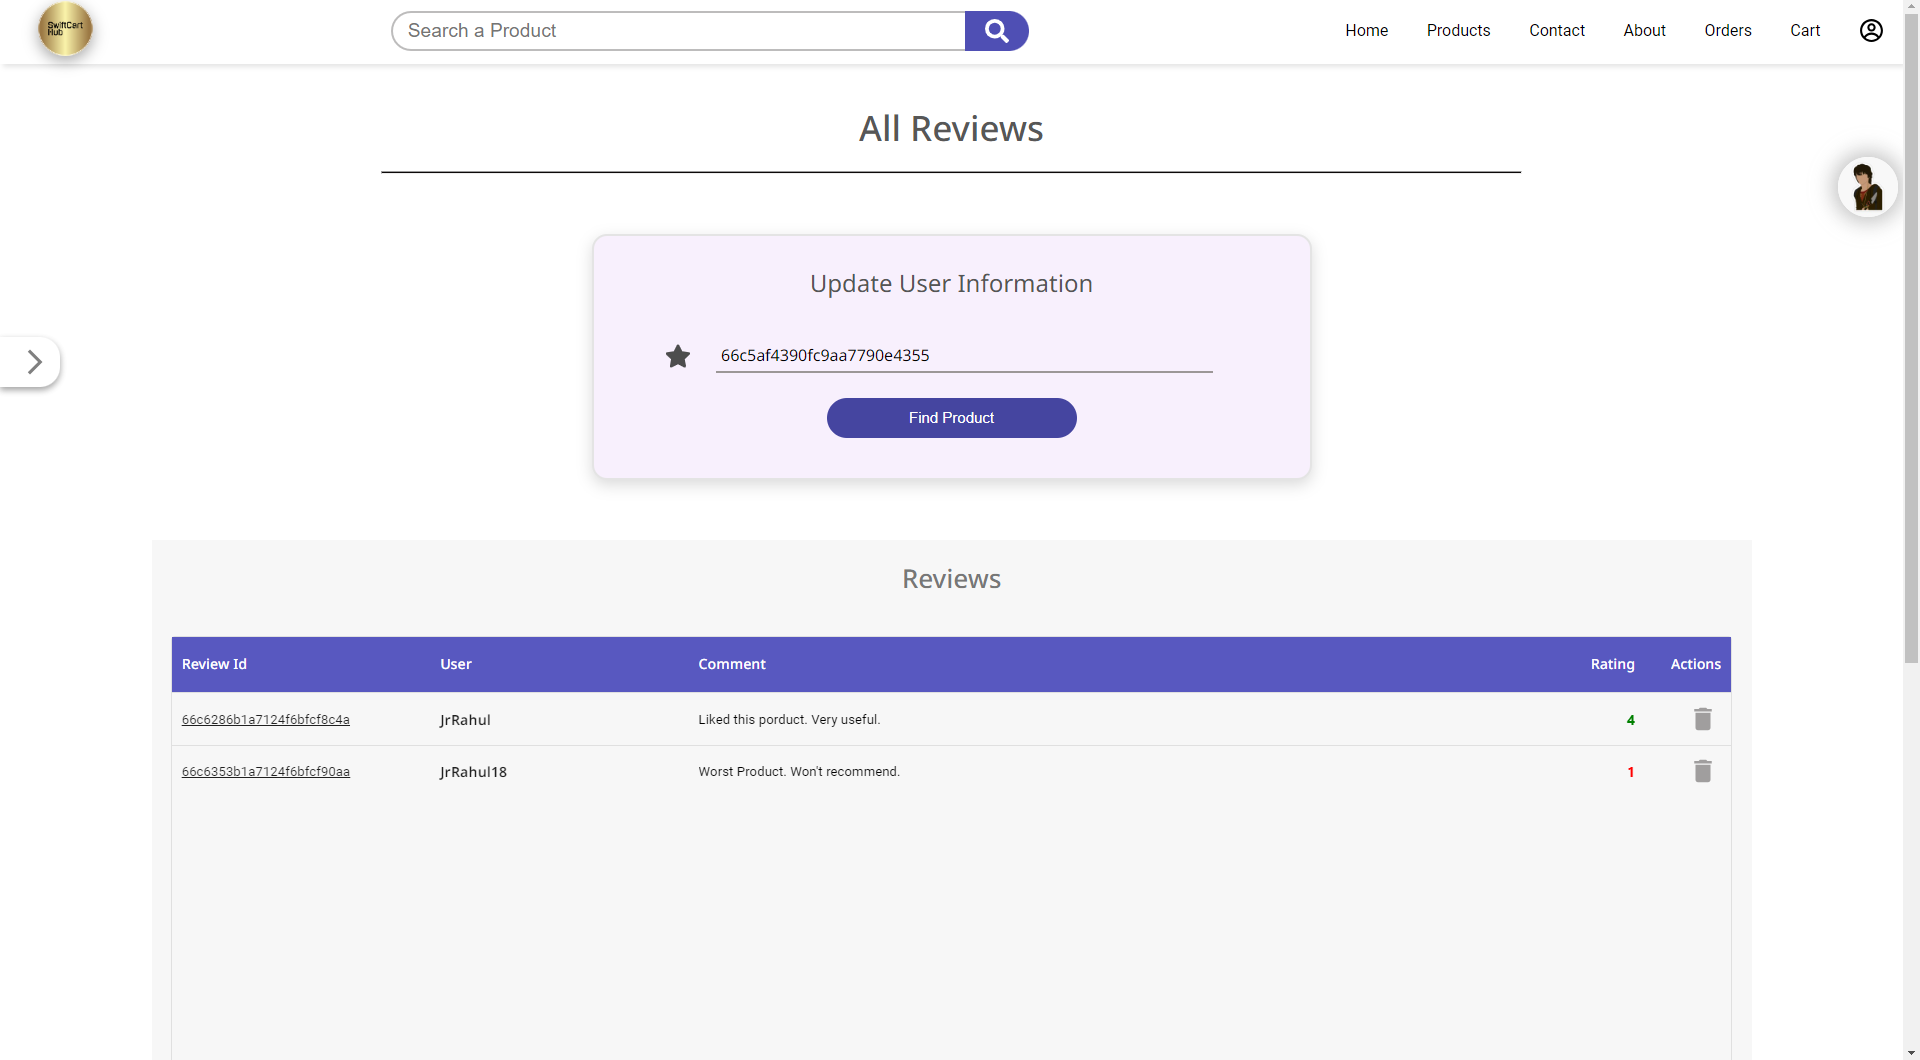
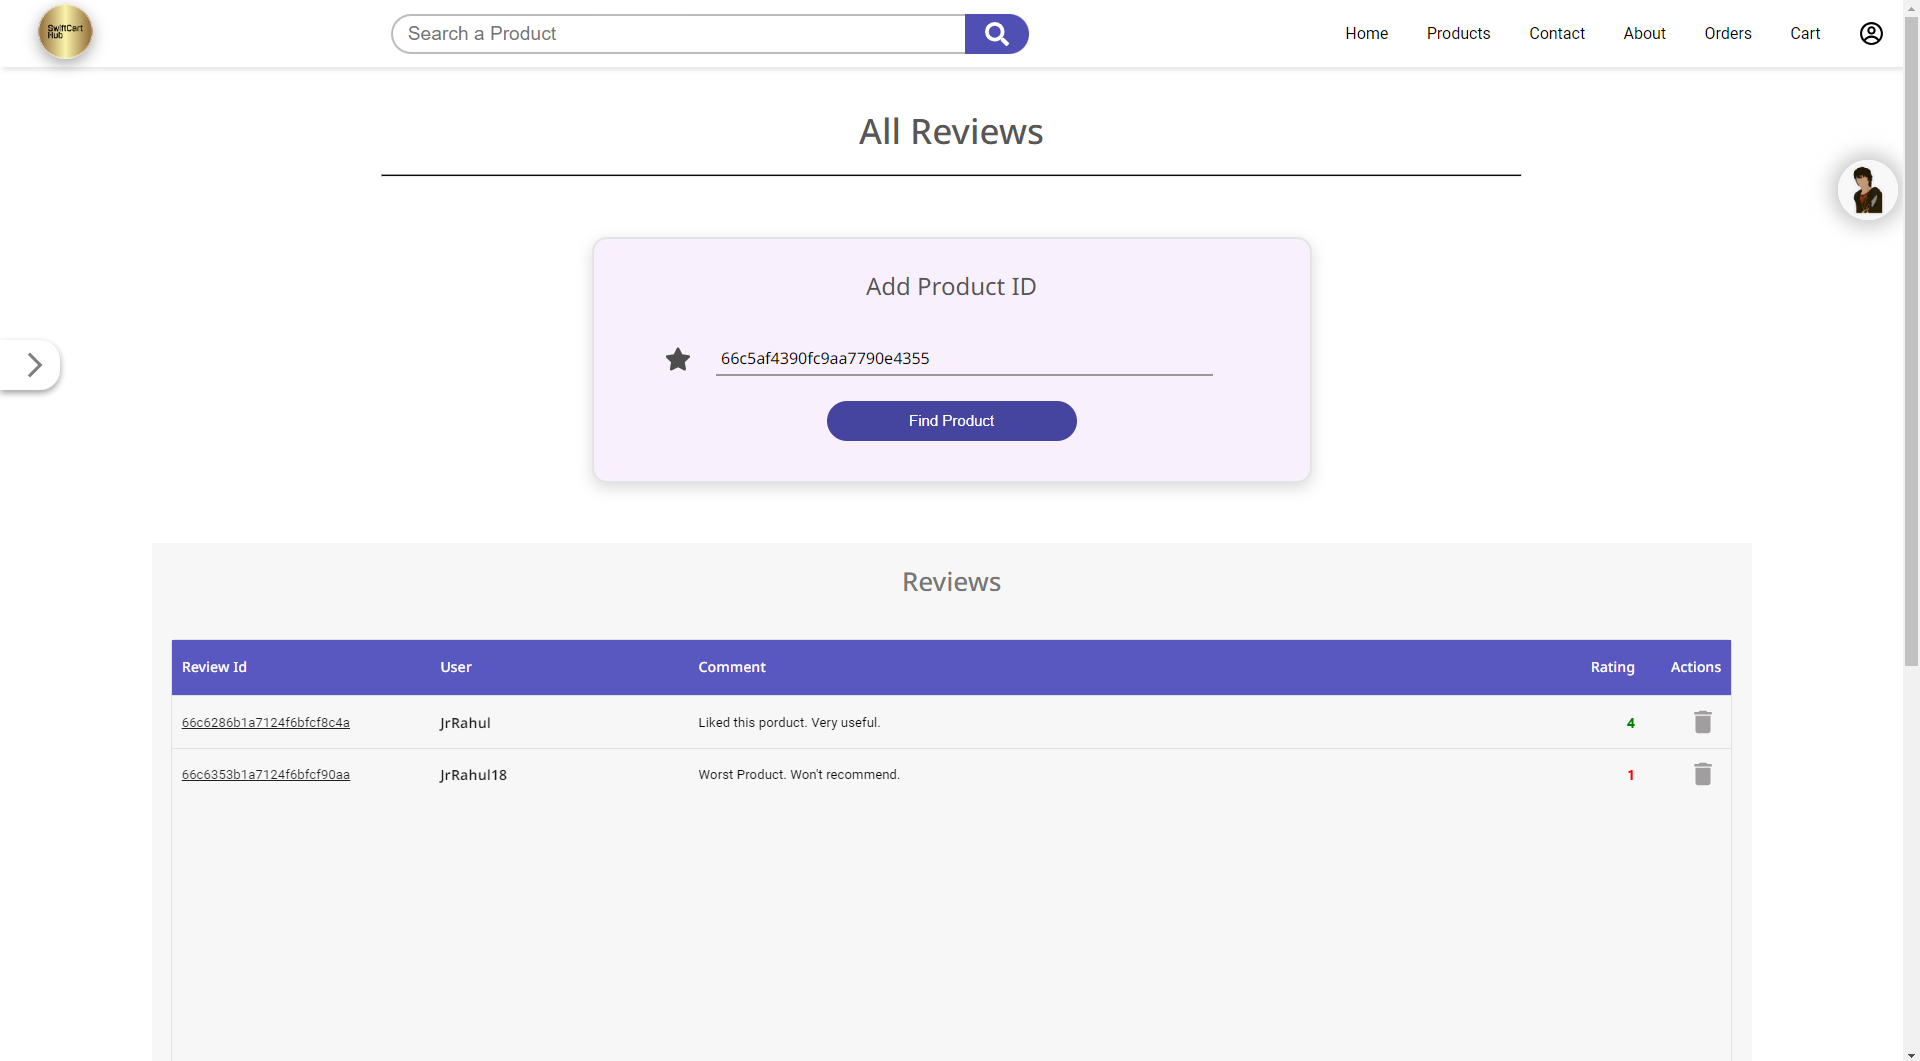
Update Readme

diff --git a/frontend/src/components/AdminReviews/AdminReviews.jsx b/frontend/src/components/AdminReviews/AdminReviews.jsx
@@ -183,7 +183,7 @@ const AdminReviews = () => {
               onSubmit={productReviewSubmitHandler}
             >
               <div className={styles.headingBox}>
-                <h2 className={styles.heading}>Update User Information</h2>
+                <h2 className={styles.heading}>Add Product ID</h2>
               </div>
 
               <div className={styles.productIdInputBox}>
